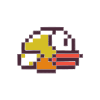
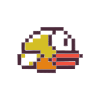
fixed bird background

diff --git a/main.py b/main.py
@@ -8,7 +8,7 @@ class BIRD:
     def __init__(self):
         self.x = 100
         self.y = 250
-        self.image = pygame.image.load('./images/bird.png')
+        self.image = pygame.image.load('./images/bird.png').convert_alpha()
 
     def draw_bird(self):
         bird_rect = pygame.Rect(self.x, self.y, 100, 100)
@@ -39,6 +39,9 @@ pygame.init()
 screen = pygame.display.set_mode((1000, 800))
 clock = pygame.time.Clock()
 
+city_image = pygame.image.load('./images/city_background.jpg').convert_alpha()
+
+
 SCREEN_UPDATE = pygame.USEREVENT
 pygame.time.set_timer(SCREEN_UPDATE, 20)
 
@@ -55,6 +58,7 @@ while True:
             main.bird.move_bird()
 
     screen.fill((255, 255, 255))
+    screen.blit(city_image, (0, 0))
     main.draw_elements()
     pygame.display.update()
-    clock.tick(144)
+    clock.tick(60)
